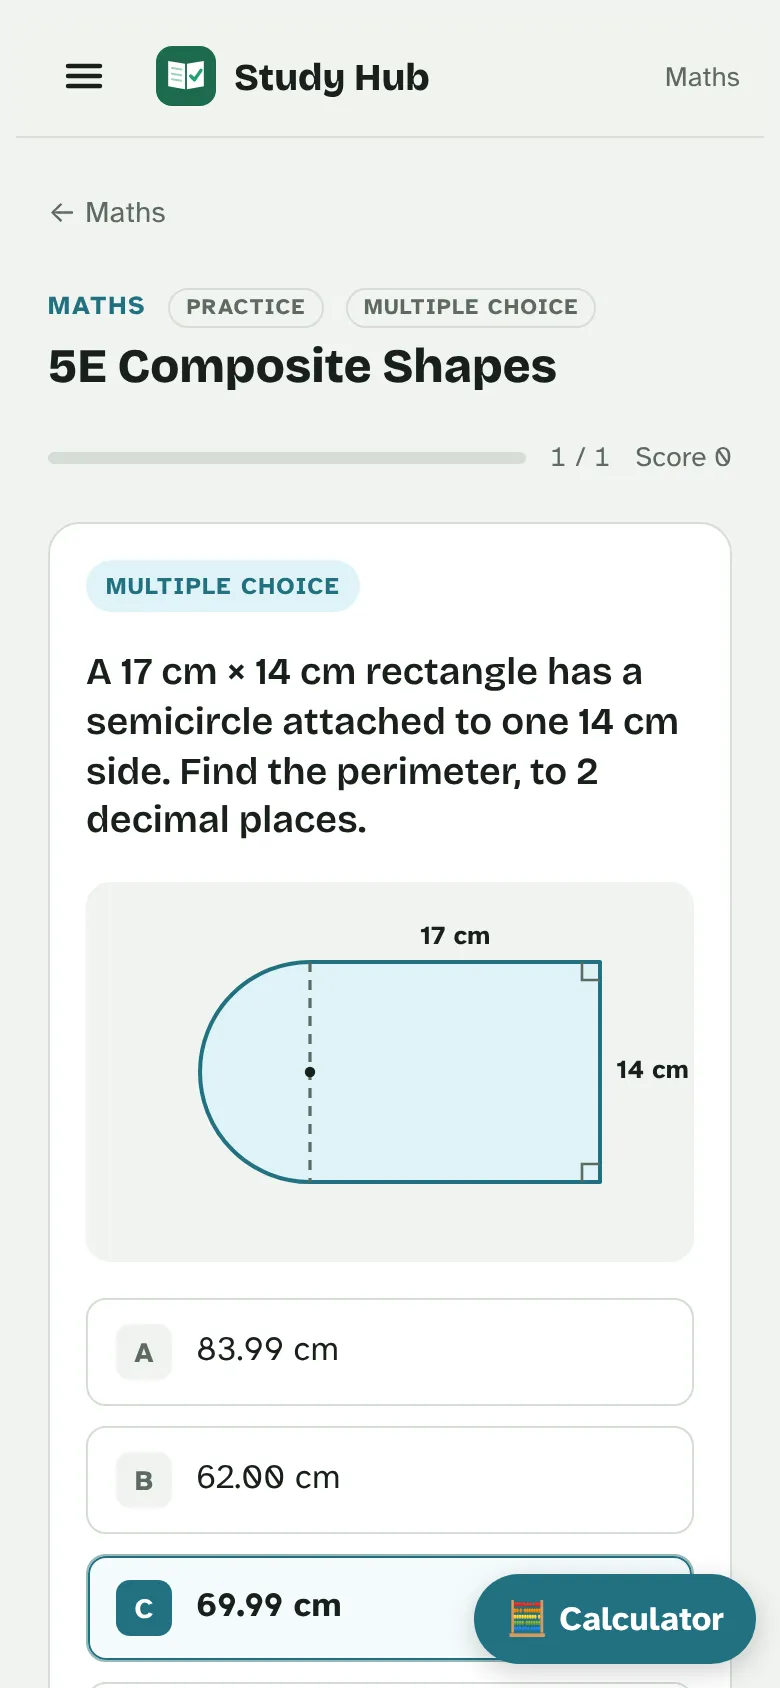
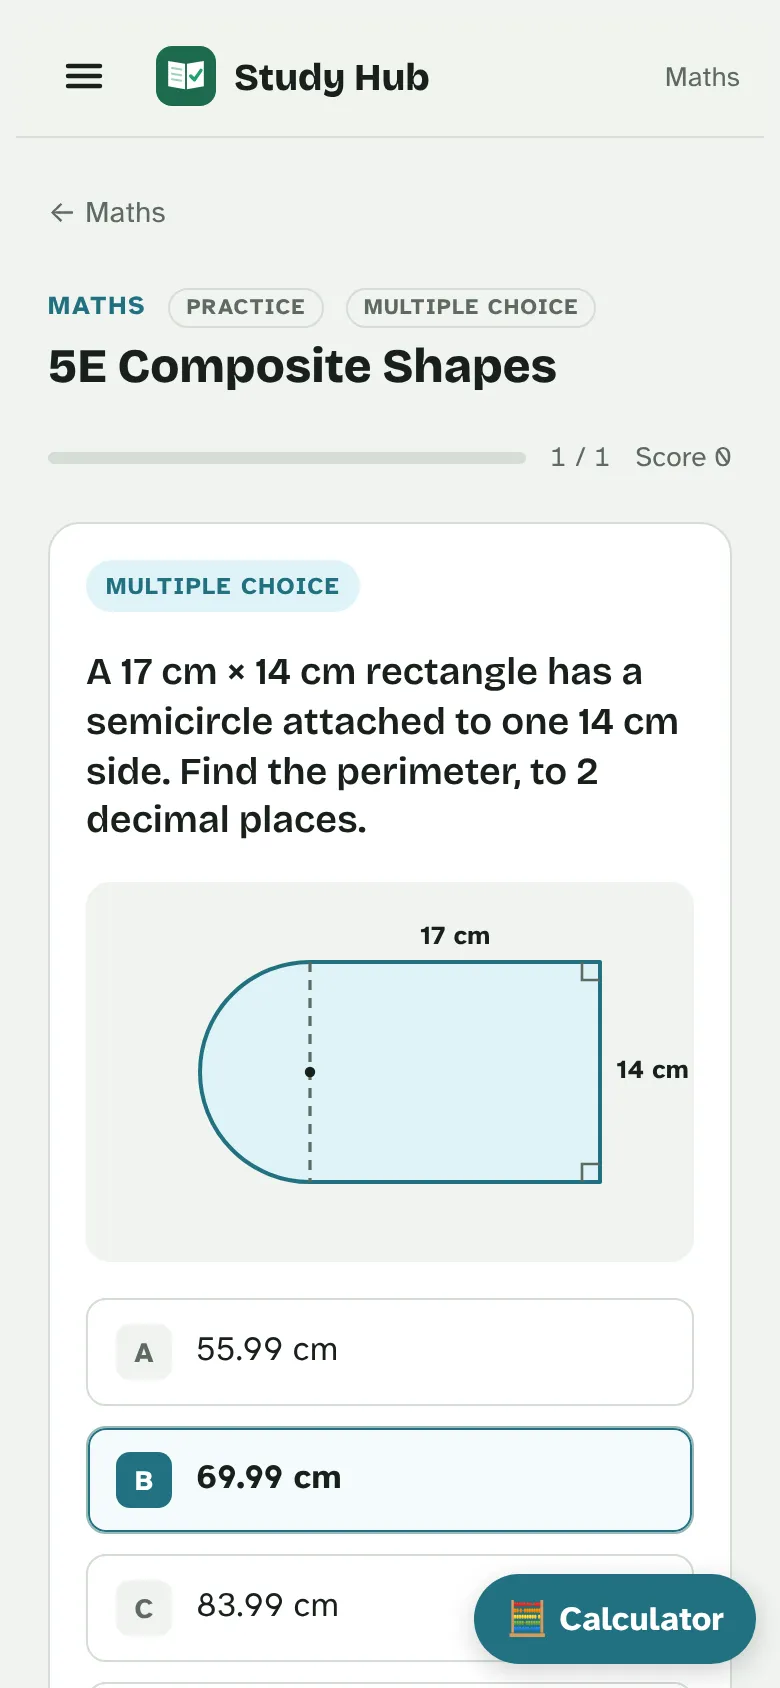
App 1.14: clearer court hierarchy wording
Claude-Session: https://claude.ai/code/session_01RPEkC1irPpA7aFvhrFjVJm

Changed region(s): [[0.0923, 0.8318, 0.8923, 0.9858], [0.2462, 0.7701, 0.3077, 0.8009]]

diff --git a/app/index.html b/app/index.html
@@ -17,8 +17,8 @@
 <meta property="og:title" content="Study Hub · Download the app">
 <meta property="og:description" content="Quizzes, tests and progress tracking for every subject. Tap to install it free on Android, iPhone or your computer.">
 <meta property="og:url" content="https://jakobball10.github.io/study-hub/">
-<meta property="og:image" content="https://jakobball10.github.io/study-hub/og-image.jpg?v=1.13">
-<meta property="og:image:secure_url" content="https://jakobball10.github.io/study-hub/og-image.jpg?v=1.13">
+<meta property="og:image" content="https://jakobball10.github.io/study-hub/og-image.jpg?v=1.14">
+<meta property="og:image:secure_url" content="https://jakobball10.github.io/study-hub/og-image.jpg?v=1.14">
 <meta property="og:image:type" content="image/jpeg">
 <meta property="og:image:width" content="1200">
 <meta property="og:image:height" content="630">
@@ -26,7 +26,7 @@
 <meta name="twitter:card" content="summary_large_image">
 <meta name="twitter:title" content="Study Hub · Download the app">
 <meta name="twitter:description" content="Quizzes, tests and progress tracking for every subject. Install it free.">
-<meta name="twitter:image" content="https://jakobball10.github.io/study-hub/og-image.jpg?v=1.13">
+<meta name="twitter:image" content="https://jakobball10.github.io/study-hub/og-image.jpg?v=1.14">
 <title>Study Hub</title>
 <meta name="claude:viewport-fit-sides" content="cover">
 <link rel="preconnect" href="https://fonts.googleapis.com">
@@ -478,7 +478,7 @@ const SUBJECTS=[
   Q(["What is the High Court's most important job?", "The High Court's main role is to…"],"Interpret the Constitution and decide whether laws passed by parliaments follow it",["Hear all minor traffic offences", "Make new laws for the states", "Run elections", "Hear divorce cases"],"The High Court interprets the Constitution and checks that state and federal laws are in line with it.","Think about the Constitution."),
   Q(["What does it mean that the High Court is the 'last court of appeal'?", "As the last court of appeal, the High Court…"],"It hears appeals from lower courts, and there is no higher court to appeal to",["It is the last court built in Australia", "It only hears cases on the last day of the year", "It can't hear any appeals", "It is the lowest court"],"Appeals from lower courts can go to the High Court, and its decision is final."),
   Q(["How many justices sit on the High Court?", "The High Court has how many justices?"],"Seven",["Three", "Five", "Nine", "Twelve"],"There are seven justices of the High Court."),
-  Q(["As well as interpreting the Constitution, what disputes does the High Court deal with?", "The High Court also settles disputes between…"],"Disputes between the governments of Australia",["Neighbours arguing over fences", "Students and schools", "Shoppers and shops", "Sports clubs"],"The High Court deals with disputes between Australian governments, such as between the federal government and a state."),
+  Q(["As well as interpreting the Constitution, what disputes does the High Court deal with?", "The High Court also settles disputes between…"],"Disputes between the governments of Australia",["Disputes between neighbours over fences", "Disputes between students and their schools", "Disputes between shoppers and shops", "Disputes between sports clubs"],"The High Court deals with disputes between Australian governments, such as between the federal government and a state."),
   Q(["How many federal courts sit under the High Court?", "Under the High Court, there are how many federal courts?"],"Three",["One", "Two", "Five", "Seven"],"There are three federal courts under the High Court: the Federal Court, the Family Court and the Federal Circuit Court. (Since 2021, the Family Court of Australia and the Federal Circuit Court have been merged into the Federal Circuit and Family Court of Australia.)"),
   Q(["Which federal court hears cases about Commonwealth law, such as immigration and taxation?", "Immigration and taxation cases go to which federal court?"],"The Federal Court",["The Family Court", "The Magistrates Court", "The District Court", "The Children's Court"],"The Federal Court deals with laws made by Federal Parliament and decisions made by the Federal Government, such as immigration and taxation."),
   Q(["Which federal court hears child custody cases and divorce hearings?", "Divorce hearings and child custody cases go to which federal court?"],"The Family Court",["The Federal Court", "The High Court", "The Supreme Court", "The Coroner's Court"],"The Family Court hears cases about families, such as child custody and divorce. (Since 2021, the Family Court of Australia and the Federal Circuit Court have been merged into the Federal Circuit and Family Court of Australia.)"),
@@ -491,7 +491,7 @@ const SUBJECTS=[
   Q(["Up to what amount can the Magistrates Court hear civil claims?", "Civil claims in the Magistrates Court can be worth up to…"],"$75,000",["$750,000", "$7,500", "$7.5 million", "There is no limit"],"The Magistrates Court hears civil claims up to $75,000."),
   Q(["Who decides the verdict and sentence in the Magistrates Court?", "Is there a jury in the Magistrates Court?"],"The magistrate, as there is no jury",["A jury of 12", "The police", "The victim", "The High Court"],"There is no jury in the Magistrates Court. The magistrate decides."),
   Q(["What kind of criminal cases does the District Court deal with?", "The District Court hears criminal cases that are…"],"Moderate ones, such as armed robbery and serious assault, with up to 20 years' imprisonment",["Minor ones, such as petty theft", "Only murder cases", "Only family disputes", "Cases worth under $75,000"],"The District Court deals with moderate criminal cases that can lead to a maximum of 20 years' imprisonment."),
-  Q(["What civil cases does the District Court hear?", "Civil cases worth between $75,000 and $750,000 go to which court?"],"Civil cases between $75,000 and $750,000",["Civil cases up to $75,000", "Civil cases over $750,000", "No civil cases at all", "Only divorce cases"],"The District Court hears civil cases worth between $75,000 and $750,000."),
+  Q(["What civil cases does the District Court hear?", "Civil cases worth between $75,000 and $750,000 go to which court?"],"Those between $75,000 and $750,000",["Those up to $75,000", "Those over $750,000", "None at all", "Only divorce cases"],"The District Court hears civil cases worth between $75,000 and $750,000."),
   Q(["In the District and Supreme Courts, who decides guilt and who decides the sentence?", "How are guilt and sentencing decided in the District Court?"],"A jury decides guilt or innocence, and the judge decides the sentence",["The judge decides both", "The jury decides both", "The police decide guilt and the judge decides the sentence", "The victim decides the sentence"],"Both courts require juries to decide guilt or innocence, but the judge decides the sentence."),
   Q(["What kind of criminal cases does the Supreme Court deal with?", "The Supreme Court hears criminal cases such as…"],"Serious ones, such as murder, with a maximum of life imprisonment",["Minor ones, such as petty theft", "Only traffic offences", "Cases with a maximum of three years", "Only child custody"],"The Supreme Court deals with serious criminal cases, such as murder, which can lead to life imprisonment."),
   Q(["Civil cases worth over $750,000 go to which WA court?", "Which WA court hears the most serious civil cases?"],"The Supreme Court",["The District Court", "The Magistrates Court", "The Children's Court", "The Warden's Court"],"Serious civil cases over $750,000 go to the Supreme Court."),
@@ -508,7 +508,7 @@ const SUBJECTS=[
   Q(["How does a court hierarchy help with appeals?", "Why does a court hierarchy matter for appeals?"],"Decisions from lower courts can be reviewed and corrected by higher courts",["It means decisions can never be changed", "Appeals go to lower courts", "Only the police can appeal", "It removes the need for appeals"],"A clear structure lets higher courts review and correct lower court decisions, which helps fairness and accuracy."),
   Q(["How does a court hierarchy help with precedent?", "Why do higher courts matter for precedent?"],"Higher courts set precedents that lower courts must follow, keeping the law consistent",["Lower courts set rules for higher courts", "Precedents are ignored by all courts", "Each court makes up its own rules", "Only parliament can set precedents"],"Higher courts such as the High Court set binding precedents, which keeps the law consistent and predictable."),
   Q(["How does a court hierarchy improve access to justice?", "Why does having lower courts make justice more accessible?"],"Minor cases can be resolved cheaply and quickly without long, expensive procedures",["Everyone must go to the High Court", "It makes every case cost more", "It means only rich people can go to court", "It removes all courts from small towns"],"Lower courts make the system more accessible and affordable for minor cases."),
-  Q(["How does a court hierarchy allow expertise?", "Why do specialist courts like the Family Court exist?"],"Judges and magistrates can specialise in certain areas of law",["So every judge knows nothing about any area", "To make cases take longer", "So the police can choose the judge", "To avoid using laws at all"],"Specialist courts let judges and magistrates build expertise in areas like family or children's law."),
+  Q(["How does a court hierarchy allow expertise?", "Why do specialist courts like the Family Court exist?"],"Judges and magistrates can specialise in certain areas of law",["Every judge has to hear every type of case", "Cases take longer when judges specialise", "The police get to choose the judge", "Specialist courts don't need to follow the law"],"Specialist courts let judges and magistrates build expertise in areas like family or children's law."),
  ]},
 ]},
 
@@ -1987,7 +1987,7 @@ let rz; window.addEventListener('resize',()=>{clearTimeout(rz);rz=setTimeout(()=
 home();
 </script>
 
-<script>window.SH_MODE='app';const APP_VERSION="1.13", APP_NOTES=["New HASS quiz: Court Hierarchy (36 questions)"];</script>
+<script>window.SH_MODE='app';const APP_VERSION="1.14", APP_NOTES=["New HASS quiz: Court Hierarchy (36 questions)", "Clearer wording on a few court hierarchy questions"];</script>
 <script src="../shell.js"></script>
 </body>
 </html>

diff --git a/share/index.html b/share/index.html
@@ -12,8 +12,8 @@
 <meta property="og:title" content="Study Hub · Download the app">
 <meta property="og:description" content="Quizzes, tests and progress tracking for every subject. Tap to install it free on Android, iPhone or your computer.">
 <meta property="og:url" content="https://jakobball10.github.io/study-hub/">
-<meta property="og:image" content="https://jakobball10.github.io/study-hub/og-image.jpg?v=1.13">
-<meta property="og:image:secure_url" content="https://jakobball10.github.io/study-hub/og-image.jpg?v=1.13">
+<meta property="og:image" content="https://jakobball10.github.io/study-hub/og-image.jpg?v=1.14">
+<meta property="og:image:secure_url" content="https://jakobball10.github.io/study-hub/og-image.jpg?v=1.14">
 <meta property="og:image:type" content="image/jpeg">
 <meta property="og:image:width" content="1200">
 <meta property="og:image:height" content="630">
@@ -21,7 +21,7 @@
 <meta name="twitter:card" content="summary_large_image">
 <meta name="twitter:title" content="Study Hub · Download the app">
 <meta name="twitter:description" content="Quizzes, tests and progress tracking for every subject. Install it free.">
-<meta name="twitter:image" content="https://jakobball10.github.io/study-hub/og-image.jpg?v=1.13">
+<meta name="twitter:image" content="https://jakobball10.github.io/study-hub/og-image.jpg?v=1.14">
 <meta name="theme-color" content="#1d6b4f">
 <link rel="icon" href="../logo.svg" type="image/svg+xml">
 <link rel="preconnect" href="https://fonts.googleapis.com">
@@ -68,7 +68,7 @@ ol{margin:0;padding-left:20px;font-size:15px;color:var(--muted)}
   <section class="card">
     <h2>Email (Gmail, Outlook, Apple Mail)</h2>
     <p>Most email apps don't turn links into previews, so paste this banner instead. It's a picture with a <b>Download the app</b> button, and tapping anywhere on it opens the download page.</p>
-    <a class="banner" id="bannerBox" href="https://jakobball10.github.io/study-hub/"><img src="../email-banner.jpg?v=1.13" alt="Study Hub: Download the app" width="1200" height="630"></a>
+    <a class="banner" id="bannerBox" href="https://jakobball10.github.io/study-hub/"><img src="../email-banner.jpg?v=1.14" alt="Study Hub: Download the app" width="1200" height="630"></a>
     <div class="row"><button class="btn" id="copyEmail">Copy email banner</button><a class="btn ghost" id="mailBtn" href="#">Open new email</a><span class="ok" id="okEmail" hidden>Copied ✓ Now paste it into your email</span></div>
     <ol><li>Tap <b>Copy email banner</b>.</li><li>Start a new email and <b>paste</b> into the message.</li><li>The banner and a text link drop in, ready to send.</li></ol>
   </section>
@@ -80,7 +80,7 @@ ol{margin:0;padding-left:20px;font-size:15px;color:var(--muted)}
 </div>
 <script>
 (function(){
-  const SITE='https://jakobball10.github.io/study-hub/', IMG=SITE+'email-banner.jpg?v=1.13';
+  const SITE='https://jakobball10.github.io/study-hub/', IMG=SITE+'email-banner.jpg?v=1.14';
   const flash=id=>{const e=document.getElementById(id);e.hidden=false;setTimeout(()=>e.hidden=true,3500)};
   const text='Check out Study Hub, a free study app with quizzes and tests for every subject: '+SITE;
   document.getElementById('shareBtn').onclick=async()=>{if(navigator.share){try{await navigator.share({title:'Study Hub',text:'A free study app with quizzes and tests for every subject.',url:SITE})}catch(e){}}else{await copyText(SITE);flash('okLink')}};

diff --git a/index.html b/index.html
@@ -12,8 +12,8 @@
 <meta property="og:title" content="Study Hub · Download the app">
 <meta property="og:description" content="Quizzes, tests and progress tracking for every subject. Tap to install it free on Android, iPhone or your computer.">
 <meta property="og:url" content="https://jakobball10.github.io/study-hub/">
-<meta property="og:image" content="https://jakobball10.github.io/study-hub/og-image.jpg?v=1.13">
-<meta property="og:image:secure_url" content="https://jakobball10.github.io/study-hub/og-image.jpg?v=1.13">
+<meta property="og:image" content="https://jakobball10.github.io/study-hub/og-image.jpg?v=1.14">
+<meta property="og:image:secure_url" content="https://jakobball10.github.io/study-hub/og-image.jpg?v=1.14">
 <meta property="og:image:type" content="image/jpeg">
 <meta property="og:image:width" content="1200">
 <meta property="og:image:height" content="630">
@@ -21,7 +21,7 @@
 <meta name="twitter:card" content="summary_large_image">
 <meta name="twitter:title" content="Study Hub · Download the app">
 <meta name="twitter:description" content="Quizzes, tests and progress tracking for every subject. Install it free.">
-<meta name="twitter:image" content="https://jakobball10.github.io/study-hub/og-image.jpg?v=1.13">
+<meta name="twitter:image" content="https://jakobball10.github.io/study-hub/og-image.jpg?v=1.14">
 <meta name="theme-color" content="#1d6b4f">
 <link rel="manifest" href="manifest.webmanifest">
 <link rel="icon" href="logo.svg" type="image/svg+xml">
@@ -150,7 +150,7 @@ footer{border-top:1px solid var(--line);padding:24px 0 40px;color:var(--muted);f
     </div>
   </section>
 
-  <footer><span>Study Hub · version 1.13</span><a href="share/">Share with friends</a><span>Your scores are saved only on your own device.</span></footer>
+  <footer><span>Study Hub · version 1.14</span><a href="share/">Share with friends</a><span>Your scores are saved only on your own device.</span></footer>
 </div>
 <script>window.SH_MODE='landing';</script>
 <script src="shell.js"></script>

diff --git a/sw.js b/sw.js
@@ -1,4 +1,4 @@
-const CACHE='studyhub-1.13';
+const CACHE='studyhub-1.14';
 const CORE=["./", "./index.html", "./logo.svg", "./og-image.jpg", "./app/", "./app/index.html", "./shell.js", "./manifest.webmanifest", "./version.json", "./icon-192.png", "./icon-512.png", "./icon-180.png", "./shot-home.webp", "./shot-quiz.webp"];
 self.addEventListener('install',e=>{e.waitUntil(caches.open(CACHE).then(c=>c.addAll(CORE.map(u=>new Request(u,{cache:'reload'})))).then(()=>self.skipWaiting()))});
 self.addEventListener('activate',e=>{e.waitUntil(caches.keys().then(ks=>Promise.all(ks.filter(k=>k!==CACHE).map(k=>caches.delete(k)))).then(()=>self.clients.claim()))});
